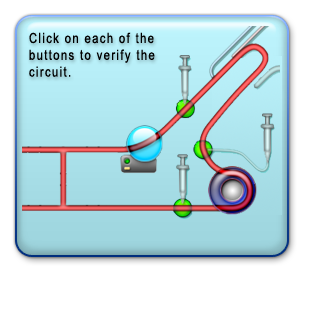
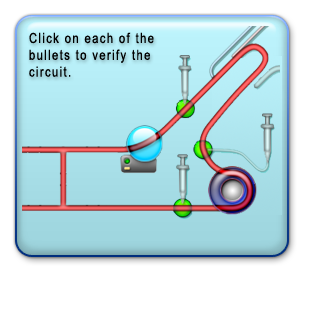
Some first bullets added (work in progess).
git-svn-id: https://ecmojo.svn.sourceforge.net/svnroot/ecmojo@421 6adee215-725e-4b28-87c1-af44a2b16021

Changed region(s): [[0.125, 0.1562, 0.5, 0.2188]]

diff --git a/trunk/app/src/app/king/lib/sandbox/control/SandboxClassLoader.java b/trunk/app/src/app/king/lib/sandbox/control/SandboxClassLoader.java
@@ -1,11 +1,5 @@
 package king.lib.sandbox.control;
 
-import java.net.MalformedURLException;
-import java.net.URL;
-import java.net.URLClassLoader;
-import java.util.HashMap;
-import java.util.Map;
-
 import king.lib.sandbox.model.Sandbox;
 
 /**
@@ -15,13 +9,10 @@ import king.lib.sandbox.model.Sandbox;
  * @since October 26, 2009
  * @access Public
  */
-public class SandboxClassLoader extends URLClassLoader {
+public class SandboxClassLoader extends ExternalClassLoader {
  
   /** The sandbox. */
   private Sandbox sandbox;
-  
-  /** The class data if any. */
-  private Map classData = new HashMap();
   
   
   /**
@@ -31,25 +22,10 @@ public class SandboxClassLoader extends URLClassLoader {
    * @param parent  The parent class loader.
    */
   public SandboxClassLoader(Sandbox sandbox, ClassLoader parent) {
-    super(new URL[0], parent);
+    super(parent);
     this.sandbox = sandbox;
   }
 
-  /**
-   * Adds an URL.
-   * 
-   * @param url  The class file URL. For example: "file:///C:\\temp\\".
-   * @throws SandboxException  If there is a problem.
-   */
-  public void addURL(String url) throws SandboxException {
-    try {
-      addURL(new URL(url));
-    }
-    catch (MalformedURLException e) {
-      throw new SandboxException(e);
-    }
-  }
-  
   /**
    * Adds a class.
    * 
@@ -57,9 +33,10 @@ public class SandboxClassLoader extends URLClassLoader {
    * @param b  The bytes.
    * @throws SandboxException  If there is a problem.
    */
+  @Override
   public void addClass(String name, byte[] b) throws SandboxException {
     if (sandbox.hasAccess(name)) {
-      classData.put(name, defineClass(name, b, 0, b.length));
+      super.addClass(name, b);
     }
     else {
       throw new SandboxException("Class name is not allowed: " + name);
@@ -77,21 +54,7 @@ public class SandboxClassLoader extends URLClassLoader {
   @Override
   protected synchronized Class loadClass(String name, boolean resolve) throws ClassNotFoundException {
     if (sandbox.hasAccess(name)) {
-      // it's a legal class, let's load it...
-      try {
-        // 1. try to find in URL paths
-        return super.findClass(name);
-      }
-      catch (ClassNotFoundException e) {
-        // 2. let's check if we have the class defined via byte array
-        if (classData.containsKey(name)) {
-          return (Class)classData.get(name);
-        }
-        else {
-          // 3. let's also check the standard class loader
-          return super.loadClass(name, resolve); 
-        }
-      }
+      return super.loadClass(name, resolve);
     }
     else {
       throw new IllegalArgumentException("No permission to load class: " + name);

diff --git a/trunk/app/src/app/king/lib/sandbox/control/ExternalClassLoader.java b/trunk/app/src/app/king/lib/sandbox/control/ExternalClassLoader.java
@@ -1,0 +1,82 @@
+package king.lib.sandbox.control;
+
+import java.net.MalformedURLException;
+import java.net.URL;
+import java.net.URLClassLoader;
+import java.util.HashMap;
+import java.util.Map;
+
+/**
+ * Loads external classes from URLs and raw byte data.
+ * 
+ * @author noblemaster
+ * @since October 30, 2009
+ * @access Public
+ */
+public class ExternalClassLoader extends URLClassLoader {
+ 
+  /** The class data if any. */
+  private Map classData = new HashMap();
+  
+  
+  /**
+   * The constructor.
+   *
+   * @param parent  The parent class loader.
+   */
+  public ExternalClassLoader(ClassLoader parent) {
+    super(new URL[0], parent);
+  }
+
+  /**
+   * Adds an URL.
+   * 
+   * @param url  The class file URL. For example: "file:///C:\\temp\\".
+   * @throws SandboxException  If there is a problem.
+   */
+  public void addURL(String url) throws SandboxException {
+    try {
+      addURL(new URL(url));
+    }
+    catch (MalformedURLException e) {
+      throw new SandboxException(e);
+    }
+  }
+  
+  /**
+   * Adds a class.
+   * 
+   * @param name  The name, e.g. "com.company.SomeClass".
+   * @param b  The bytes.
+   * @throws SandboxException  If there is a problem.
+   */
+  public void addClass(String name, byte[] b) throws SandboxException {
+    classData.put(name, defineClass(name, b, 0, b.length));
+  }
+  
+  /**
+   * Loads the actual classes. Throws an IllegalArgumentException if a class is not allowed to be used.
+   * 
+   * @param name  The name of the class to load.
+   * @param resolve  True to resolve the class.
+   * @throws ClassNotFoundException  If the class cannot be found.
+   * @return The class loaded.
+   */
+  @Override
+  protected synchronized Class loadClass(String name, boolean resolve) throws ClassNotFoundException {
+    try {
+      // 1. try to find in URL paths
+      return super.findClass(name);
+    }
+    catch (ClassNotFoundException e) {
+      // 2. let's check if we have the class defined via byte array
+      if (classData.containsKey(name)) {
+        return (Class)classData.get(name);
+      }
+      else {
+        // 3. let's also check the standard class loader
+        return super.loadClass(name, resolve); 
+      }
+    }
+  }
+}

diff --git a/trunk/app/src/app/edu/hawaii/jabsom/tri/ecmo/app/view/comp/TubeDetailPanel.java b/trunk/app/src/app/edu/hawaii/jabsom/tri/ecmo/app/view/comp/TubeDetailPanel.java
@@ -27,6 +27,13 @@ public class TubeDetailPanel extends DetailPanel {
   /** The detail image. */
   private Image detailImage = ImageLoader.getInstance().getImage("conf/image/interface/game/Detail-Tube.png");
   
+  /** The normal bullet. */
+  private Image bul = ImageLoader.getInstance().getImage("conf/image/interface/game/Btn-CheckCircuitBullet.png");
+  /** The rollover bullet. */
+  private Image bulRol = ImageLoader.getInstance().getImage("conf/image/interface/game/Btn-CheckCircuitBulletRol.png");
+  /** The selected bullet. */
+  private Image bulSel = ImageLoader.getInstance().getImage("conf/image/interface/game/Btn-CheckCircuitBulletSel.png");
+  
   
   /**
    * Constructor for panel.
@@ -67,6 +74,36 @@ public class TubeDetailPanel extends DetailPanel {
     changeCircuitButton.setLocation(18, 222);
     changeCircuitButton.setSize(192, 32);
     add(changeCircuitButton);
+    
+    // add the bullets
+    ImageButton bullet;
+    ActionListener defaultBulletListener = new ActionListener() {
+      public void actionPerformed(ActionEvent event) {
+        // output splash - nothing found
+        
+      }
+    };
+    
+    bullet = addBullet(33, 149);    
+    bullet.addActionListener(defaultBulletListener);
+    bullet = addBullet(63, 149);    
+    bullet.addActionListener(defaultBulletListener);
+
+  }
+  
+  /**
+   * Adds a new bullet button.
+   * 
+   * @param x  The x position (center).
+   * @param y  The y position (center).
+   * @return  The button added.
+   */
+  private ImageButton addBullet(int x, int y) {
+    ImageButton bulletButton = new ImageButton(bul, bulRol, bulSel);
+    bulletButton.setLocation(x - 12, y - 12);
+    bulletButton.setSize(24, 24);
+    add(bulletButton);
+    return bulletButton;
   }
   
   /**

diff --git a/trunk/app/src/app/king/lib/script/model/java/JavaCompile.java b/trunk/app/src/app/king/lib/script/model/java/JavaCompile.java
@@ -1,5 +1,6 @@
 package king.lib.script.model.java;
 
+import king.lib.sandbox.control.ExternalClassLoader;
 import king.lib.sandbox.control.SandboxClassLoader;
 import king.lib.script.control.ScriptException;
 import king.lib.script.model.Compile;
@@ -39,12 +40,12 @@ public class JavaCompile implements Compile {
    */
   public Object execute(Context context, Object object) throws ScriptException {   
     // obtain class loader
-    ClassLoader classLoader;
+    ExternalClassLoader classLoader;
     if (context.getSandbox() != null) {
       classLoader = new SandboxClassLoader(context.getSandbox(), getClass().getClassLoader());
     }
     else {
-      classLoader = getClass().getClassLoader();
+      classLoader = new ExternalClassLoader(getClass().getClassLoader());
     }
     
     // load the class

diff --git a/trunk/app/src/app/king/lib/script/control/ScriptRunner.java b/trunk/app/src/app/king/lib/script/control/ScriptRunner.java
@@ -67,6 +67,7 @@ public class ScriptRunner {
       try {
         // write the file
         // TODO: needs rework (make sure another file does not exist already etc.)
+        // TODO: Java 6 can compile in memory :)
         String name = JavaCompile.SCRIPT_NAME;
         String path = System.getProperty("java.io.tmpdir") + "/" + name + ".java";
         DataOutputStream out = new DataOutputStream(new FileOutputStream(new File(path)));
